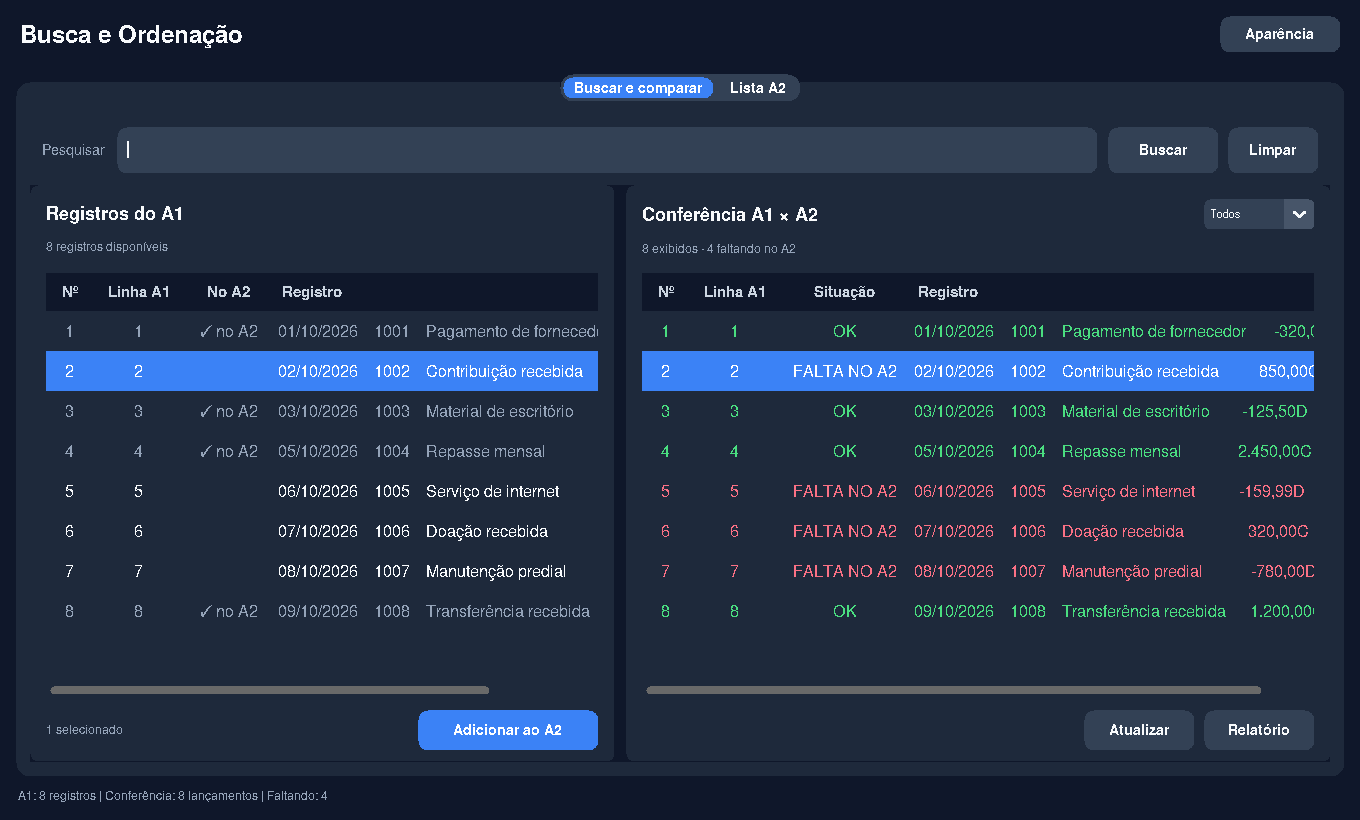
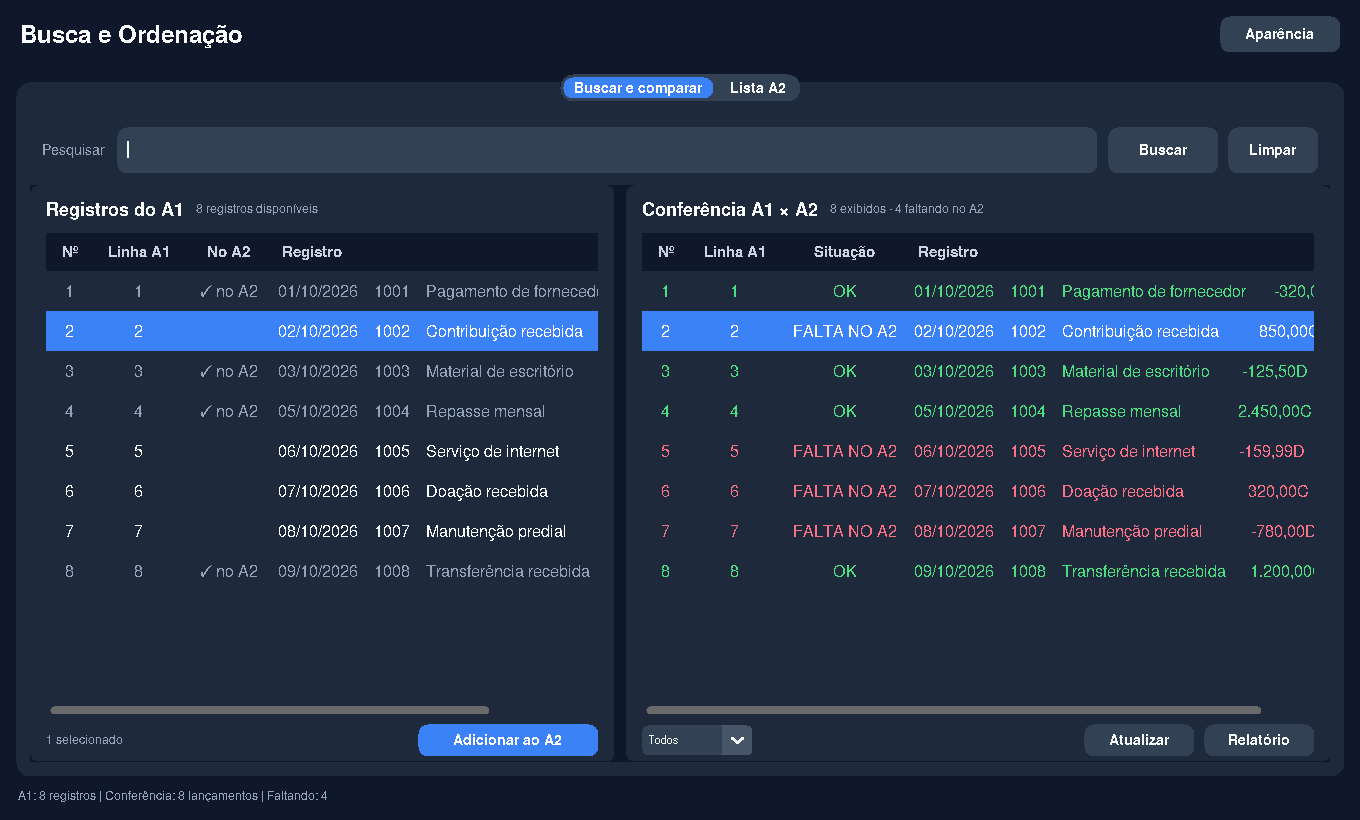
Alinha contagens aos títulos e reduz rodapés dos painéis

diff --git a/main.py b/main.py
@@ -458,7 +458,7 @@ class App(ctk.CTk):
         frame.grid_columnconfigure(0, weight=1)
         tree.grid(row=0, column=0, sticky="nsew")
         sb.grid(row=0, column=1, sticky="ns", padx=(8, 0))
-        horizontal.grid(row=1, column=0, sticky="ew", pady=(8, 0))
+        horizontal.grid(row=1, column=0, sticky="ew", pady=(4, 0))
         return frame, tree
 
     @staticmethod
@@ -563,16 +563,17 @@ class App(ctk.CTk):
         self.divisao.bind("<Configure>", self.posicionar_divisao)
         for painel in (self.painel_busca, self.aba_deb):
             painel.grid_columnconfigure(0, weight=1)
-            painel.grid_rowconfigure(0, minsize=88)
+            painel.grid_rowconfigure(0, minsize=48)
             painel.grid_rowconfigure(1, weight=1)
-            painel.grid_rowconfigure(2, minsize=64)
+            painel.grid_rowconfigure(2, minsize=44)
         cabecalho = ctk.CTkFrame(self.painel_busca, fg_color="transparent")
-        cabecalho.grid(row=0, column=0, sticky="nsew", padx=16, pady=(14, 10))
+        cabecalho.grid(row=0, column=0, sticky="ew", padx=16, pady=6)
+        cabecalho.grid_columnconfigure(1, weight=1)
         ctk.CTkLabel(cabecalho, text="Registros do A1",
-                    font=(FONTE, 18, "bold"), text_color=c("texto")).pack(anchor="w")
+                    font=(FONTE, 18, "bold"), text_color=c("texto")).grid(row=0, column=0, sticky="w")
         self.resumo_origem = tk.StringVar()
         ctk.CTkLabel(cabecalho, textvariable=self.resumo_origem,
-                    text_color=c("cinza"), font=(FONTE, 12)).pack(anchor="w", pady=(6, 0))
+                    text_color=c("cinza"), font=(FONTE, 12)).grid(row=0, column=1, sticky="w", padx=(12, 0))
 
         frame, self.tree_busca = self._tabela(
             self.painel_busca, [("ordem", "Nº"), ("linha", "Linha A1"), ("texto", "Registro"), ("situacao", "No A2")],
@@ -580,12 +581,12 @@ class App(ctk.CTk):
         frame.grid(row=1, column=0, sticky="nsew", padx=16)
         self.tree_busca.configure(displaycolumns=("ordem", "linha", "situacao", "texto"))
         rodape = ctk.CTkFrame(self.painel_busca, fg_color="transparent")
-        rodape.grid(row=2, column=0, sticky="ew", padx=16, pady=12)
+        rodape.grid(row=2, column=0, sticky="ew", padx=16, pady=6)
         self.resumo_selecao = tk.StringVar(value="Nenhum selecionado")
         ctk.CTkLabel(rodape, textvariable=self.resumo_selecao,
                      text_color=c("cinza"), font=(FONTE, 12)).pack(side="left")
         self.botao_adicionar = self.botao(rodape, "Adicionar ao A2", self.adicionar_e_comparar,
-                                          primario=True, largura=180, altura=40)
+                                          primario=True, largura=180, altura=32)
         self.botao_adicionar.pack(side="right")
         self.botao_adicionar.configure(state="disabled")
         self.tree_busca.bind("<Double-1>", self.adicionar_por_duplo_clique)
@@ -603,7 +604,7 @@ class App(ctk.CTk):
             largura = round(painel._apply_widget_scaling(minimo))
             if int(self.divisao.panecget(painel, "minsize")) != largura:
                 self.divisao.paneconfigure(painel, minsize=largura)
-            altura = round(painel._apply_widget_scaling(88))
+            altura = round(painel._apply_widget_scaling(48))
             if painel.grid_rowconfigure(0)["minsize"] != altura:
                 painel.grid_rowconfigure(0, minsize=altura)
         if not self._divisao_posicionada:
@@ -765,24 +766,25 @@ class App(ctk.CTk):
     #  aba 3: comparação de débitos e créditos
     def _montar_aba_debitos(self):
         cabecalho = ctk.CTkFrame(self.aba_deb, fg_color="transparent")
-        cabecalho.grid(row=0, column=0, sticky="nsew", padx=16, pady=(14, 10))
-        titulo = ctk.CTkFrame(cabecalho, fg_color="transparent")
-        titulo.pack(fill="x")
-        ctk.CTkLabel(titulo, text="Conferência A1 × A2",
-                    font=(FONTE, 18, "bold"), text_color=c("texto")).pack(side="left")
+        cabecalho.grid(row=0, column=0, sticky="ew", padx=16, pady=6)
+        cabecalho.grid_columnconfigure(1, weight=1)
+        ctk.CTkLabel(cabecalho, text="Conferência A1 × A2",
+                    font=(FONTE, 18, "bold"), text_color=c("texto")).grid(row=0, column=0, sticky="w")
+        rodape = ctk.CTkFrame(self.aba_deb, fg_color="transparent")
+        rodape.grid(row=2, column=0, sticky="ew", padx=16, pady=6)
         self.tipo_comparacao = tk.StringVar(value="Todos")
         self.tipo_comparacao.trace_add("write", lambda *a: self.atualizar_debitos())
-        ctk.CTkOptionMenu(titulo, values=["Todos", "Débitos", "Créditos"],
+        ctk.CTkOptionMenu(rodape, values=["Todos", "Débitos", "Créditos"],
                          variable=self.tipo_comparacao, width=110, height=30,
                          fg_color=c("campo"), button_color=c("campo_hover"),
                          button_hover_color=c("campo_hover"), text_color=c("texto"),
                          dropdown_fg_color=c("painel"), dropdown_text_color=c("texto"),
-                         dropdown_hover_color=c("campo")).pack(side="right")
+                         dropdown_hover_color=c("campo")).pack(side="left")
         self.var_total = tk.StringVar(value="0")
         self.var_falta = tk.StringVar(value="0")
         self.resumo_conferencia = tk.StringVar()
         ctk.CTkLabel(cabecalho, textvariable=self.resumo_conferencia,
-                     text_color=c("cinza"), font=(FONTE, 12)).pack(anchor="w", pady=(6, 0))
+                     text_color=c("cinza"), font=(FONTE, 12)).grid(row=0, column=1, sticky="w", padx=(12, 0))
 
         frame, self.tree_deb = self._tabela(
             self.aba_deb, [("ordem", "Nº"), ("linha", "Linha A1"), ("texto", "Registro"),
@@ -790,12 +792,10 @@ class App(ctk.CTk):
             [48, 90, 0, 130])
         frame.grid(row=1, column=0, sticky="nsew", padx=16)
         self.tree_deb.configure(displaycolumns=("ordem", "linha", "situacao", "texto"))
-        rodape = ctk.CTkFrame(self.aba_deb, fg_color="transparent")
-        rodape.grid(row=2, column=0, sticky="ew", padx=16, pady=12)
         self.botao(rodape, "Relatório", self.imprimir_relatorio,
-                   largura=110, altura=40).pack(side="right")
+                   largura=110, altura=32).pack(side="right")
         self.botao(rodape, "Atualizar", self.atualizar_tudo,
-                   largura=110, altura=40).pack(side="right", padx=(0, 10))
+                   largura=110, altura=32).pack(side="right", padx=(0, 10))
         self.tree_deb.bind("<<TreeviewSelect>>", lambda e: self.sincronizar_selecao(self.tree_deb, self.tree_busca))
 
     def tipo_selecionado(self):

diff --git a/README.md b/README.md
@@ -16,10 +16,12 @@ a situação é atualizada ao lado, mantendo a pesquisa. Arraste a divisória ce
 para ajustar o espaço de cada painel.
 
 A barra superior reúne apenas **Pesquisar**, **Buscar** e **Limpar**. As duas
-tabelas ficam alinhadas, com títulos curtos e um resumo dos registros exibidos.
+tabelas ficam alinhadas, com as contagens na mesma linha dos títulos.
 **Adicionar ao A2** fica no rodapé do A1, ao lado da quantidade selecionada,
 e só é habilitado com uma seleção. **Atualizar** e **Relatório** ficam no rodapé
-da conferência. O filtro **Todos / Débitos / Créditos** permanece junto ao título.
+da conferência. O filtro **Todos / Débitos / Créditos** fica no mesmo rodapé,
+à esquerda dos botões. Os dois rodapés têm margens menores e botões de 32 pixels,
+deixando mais altura para os registros sem reduzir a fonte ou a altura das linhas.
 Os cartões e as instruções repetidas foram substituídos por resumos em texto.
 Os seletores de tema e cor ficam recolhidos no botão **Aparência**.
 A situação aparece antes do registro, ficando visível mesmo em linhas longas.
